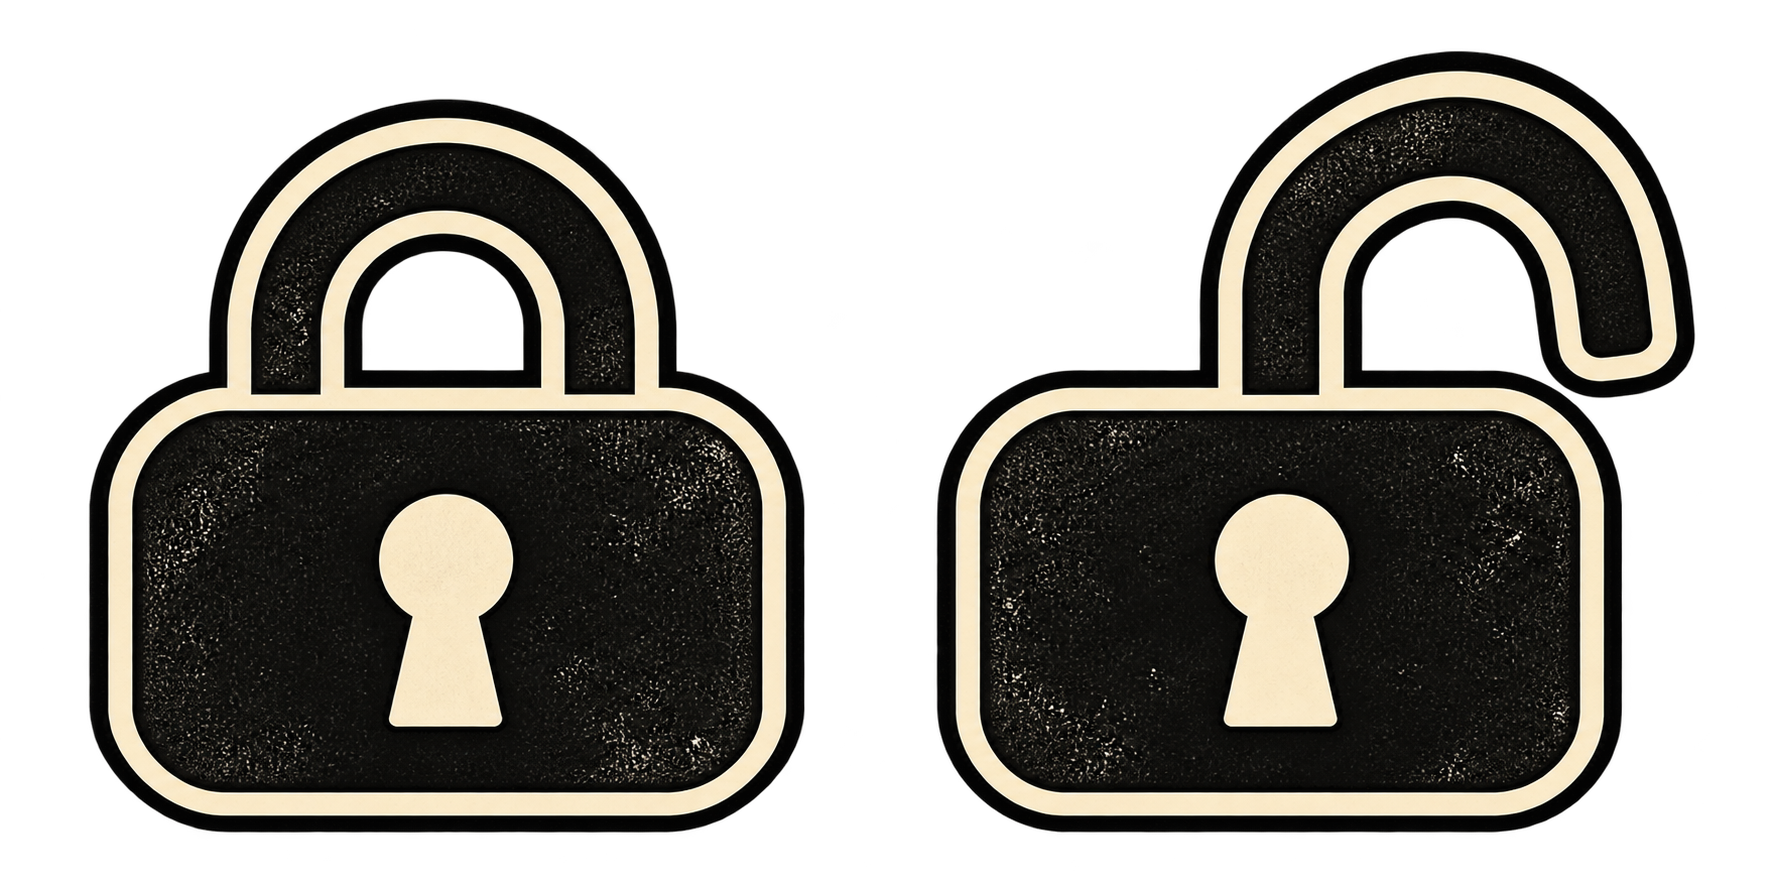
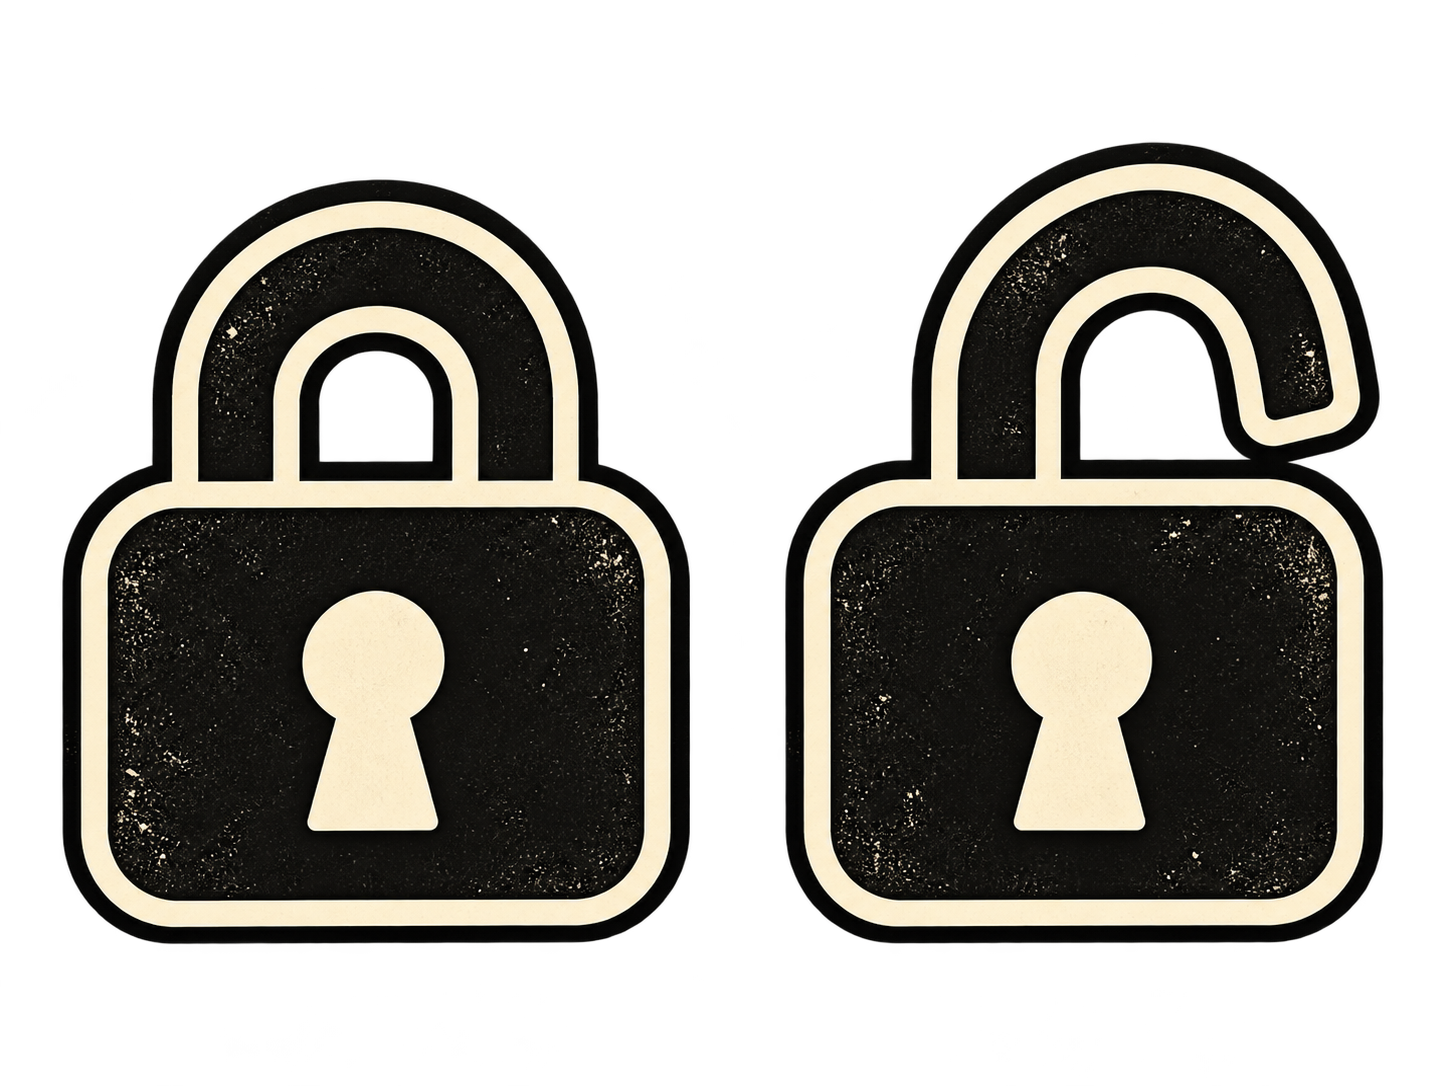
New padlock pictures; the overlay's lock has no square behind it
The padlock comes from User's new lock sheet. Without the button square it
is drawn the full button height, so it lines up with the show and quit
buttons beside it. Windows and Linux.

diff --git a/src/MinimumEffortClicker.App/StatusOverlay.cs b/src/MinimumEffortClicker.App/StatusOverlay.cs
@@ -37,7 +37,8 @@ internal sealed class StatusOverlay : Window, IOverlayPresenter
     private readonly StackPanel actions = new() { Orientation = Orientation.Horizontal, Margin = new Thickness(8, 0, 0, 0), VerticalAlignment = VerticalAlignment.Center };
     private readonly DockPanel row = new();
     private readonly List<(Border Button, System.Windows.Shapes.Shape? Glyph, Brush Normal, Brush Hover)> buttons = [];
-    private readonly Image lockPicture = new() { Width = 16, Height = 16 };
+    // The padlock fills its button with no square behind it; the show and quit buttons keep theirs.
+    private readonly Image lockPicture = new() { Width = 20, Height = 20 };
     private readonly Border lockButton;
     // The window is click-through as a whole; while the pointer is over a button (or over any of it while unlocked) it
     // takes clicks, so the rest never does.
@@ -66,7 +67,7 @@ internal sealed class StatusOverlay : Window, IOverlayPresenter
         WindowStyle = WindowStyle.None; AllowsTransparency = true; Background = Brushes.Transparent;
         ShowActivated = false; ShowInTaskbar = false; Topmost = true; ResizeMode = ResizeMode.NoResize; Focusable = false;
         FontFamily = new FontFamily("Segoe UI");
-        lockButton = AddButton("", lockPicture, null, () => LockToggled?.Invoke(), ButtonNormal, ButtonHover);
+        lockButton = AddButton("", lockPicture, null, () => LockToggled?.Invoke(), Brushes.Transparent, Brushes.Transparent);
         ShowLock();
         AddButton("Show Minimum Effort Clicker", "show", new System.Windows.Shapes.Rectangle { Width = 9, Height = 9, StrokeThickness = 1.5 }, () => ShowRequested?.Invoke(), ButtonNormal, ButtonHover);
         AddButton("Quit Minimum Effort Clicker (stops anything running)", "quit", new System.Windows.Shapes.Path { Data = Geometry.Parse("M0,0 L9,9 M9,0 L0,9"), StrokeThickness = 1.5, Width = 9, Height = 9 }, () => ExitRequested?.Invoke(), QuitNormal, QuitHover);

diff --git a/src/MinimumEffortClicker.Linux.App/StatusOverlay.cs b/src/MinimumEffortClicker.Linux.App/StatusOverlay.cs
@@ -40,7 +40,8 @@ internal sealed class StatusOverlay : Window, IOverlayPresenter
     private readonly StackPanel actions = new() { Orientation = Orientation.Horizontal, Spacing = 4, Margin = new Thickness(8, 0, 0, 0), VerticalAlignment = VerticalAlignment.Center };
     private PixelRect[] clickable = [];
     private static readonly IBrush ButtonNormal = new SolidColorBrush(Color.FromArgb(50, 255, 255, 255)), ButtonHover = new SolidColorBrush(Color.FromArgb(110, 255, 255, 255));
-    private readonly Image lockPicture = new() { Width = 16, Height = 16 };
+    // The padlock fills its button with no square behind it; the show and quit buttons keep theirs.
+    private readonly Image lockPicture = new() { Width = 20, Height = 20 };
     private readonly Border lockButton;
     // The Click target it was last placed on, in screen pixels: a drag is turned into an anchor relative to it.
     private (double Left, double Top, double Width, double Height)? target;
@@ -65,7 +66,7 @@ internal sealed class StatusOverlay : Window, IOverlayPresenter
         WindowDecorations = WindowDecorations.None; Background = Brushes.Transparent;
         TransparencyLevelHint = [WindowTransparencyLevel.Transparent];
         ShowActivated = false; ShowInTaskbar = false; Topmost = true; CanResize = false; Focusable = false;
-        lockButton = OverlayButton("", lockPicture, () => LockToggled?.Invoke(), ButtonNormal, ButtonHover);
+        lockButton = OverlayButton("", lockPicture, () => LockToggled?.Invoke(), Brushes.Transparent, Brushes.Transparent);
         actions.Children.Add(lockButton);
         // On GNOME the clicker has no taskbar entry while it is hidden or minimised, so the overlay offers a way back and out.
         actions.Children.Add(OverlayButton("Show Minimum Effort Clicker", "show", new Rectangle { Width = 9, Height = 9, Stroke = Brushes.White, StrokeThickness = 1.5 }, () => ShowRequested?.Invoke(),
